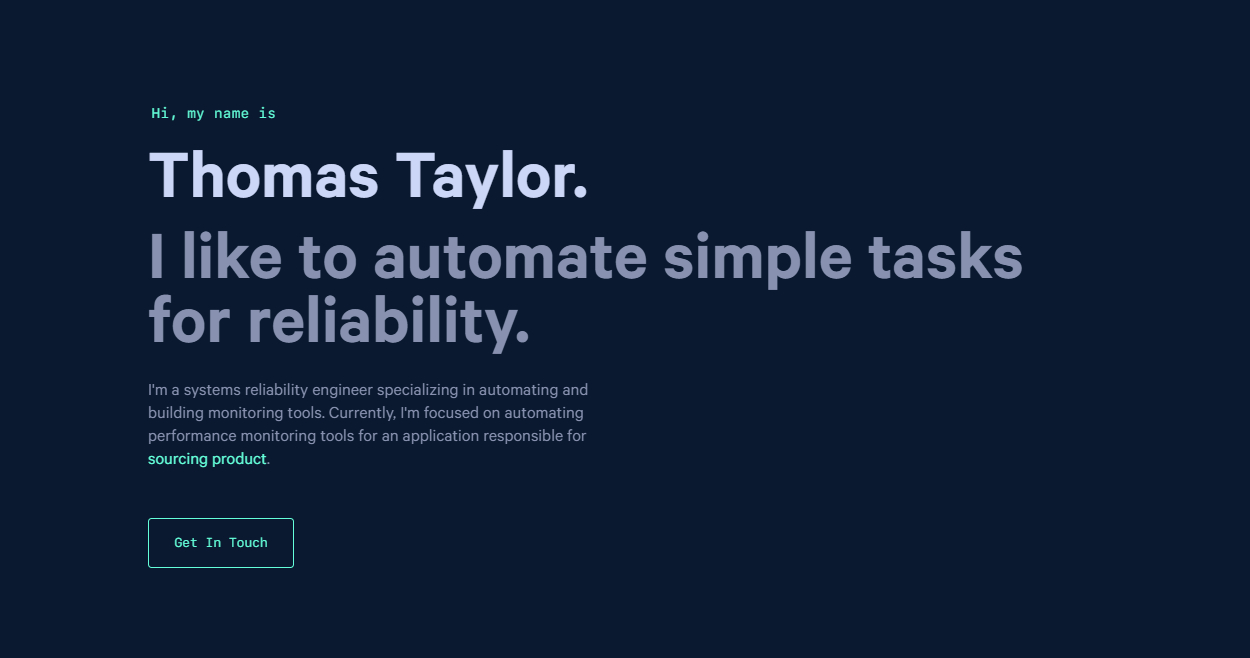
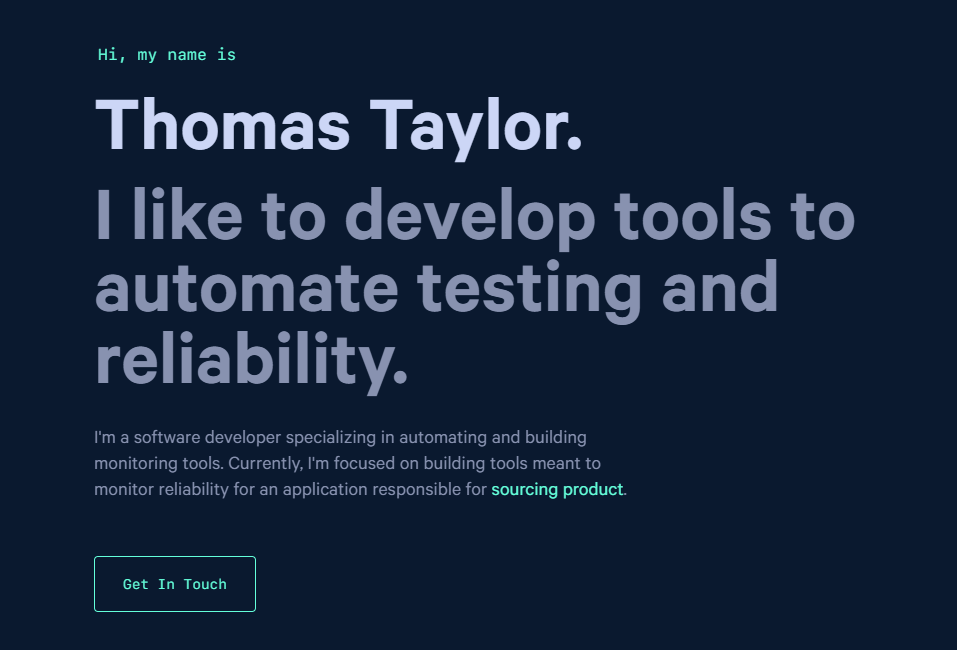
SEO updates.

diff --git a/gatsby-config.js b/gatsby-config.js
@@ -4,7 +4,7 @@ module.exports = {
   siteMetadata: {
     title: 'Thomas Taylor',
     description:
-      'Thomas Taylor is a SRE who specializes in automation and reliability.',
+      'Thomas Taylor is a application Software Developer who specializes in automation and reliability.',
     siteUrl: 'https://thomastaylor.com', // No trailing slash allowed!
     image: '/og.png', // Path to your image you placed in the 'static' folder
     twitterUsername: '',
